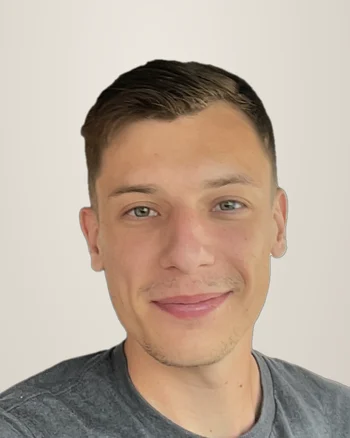
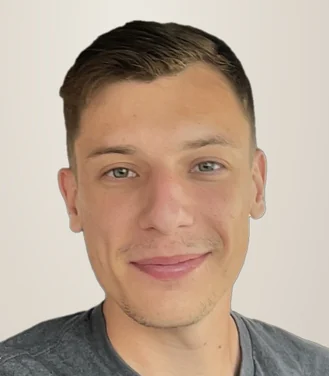
New headshot crop, centered; About photo keeps its proportions

diff --git a/src/styles.css b/src/styles.css
@@ -285,7 +285,7 @@ a:hover { color: var(--accent-ink); }
 }
 @media (max-width: 820px) { .about { grid-template-columns: 1fr; } }
 .about__side { display: flex; flex-direction: column; gap: 24px; }
-.about__photo { width: min(100%, 280px); aspect-ratio: 4 / 5; height: auto; border-radius: 14px; object-fit: cover; }
+.about__photo { width: min(100%, 280px); aspect-ratio: 657 / 751; height: auto; border-radius: 14px; object-fit: cover; }
 @media (max-width: 820px) { .about__side { flex-direction: row; align-items: flex-end; justify-content: space-between; } .about__photo { width: 120px; } }
 .about h2 { margin: 0; font-family: var(--serif); font-weight: 400; font-size: clamp(40px, 5vw, 56px); line-height: 1; }
 .about p { margin: 0 0 16px; color: var(--ink-2); }
